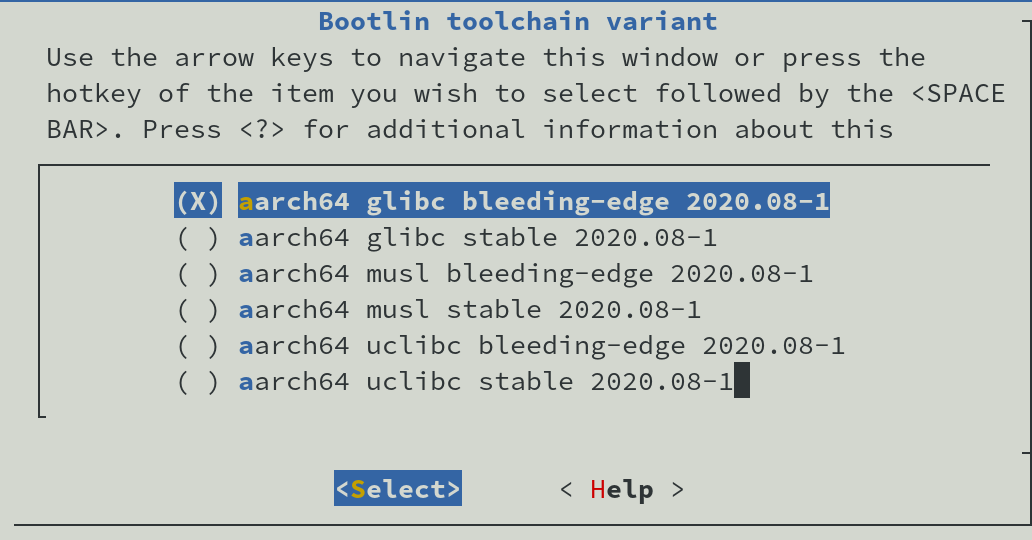
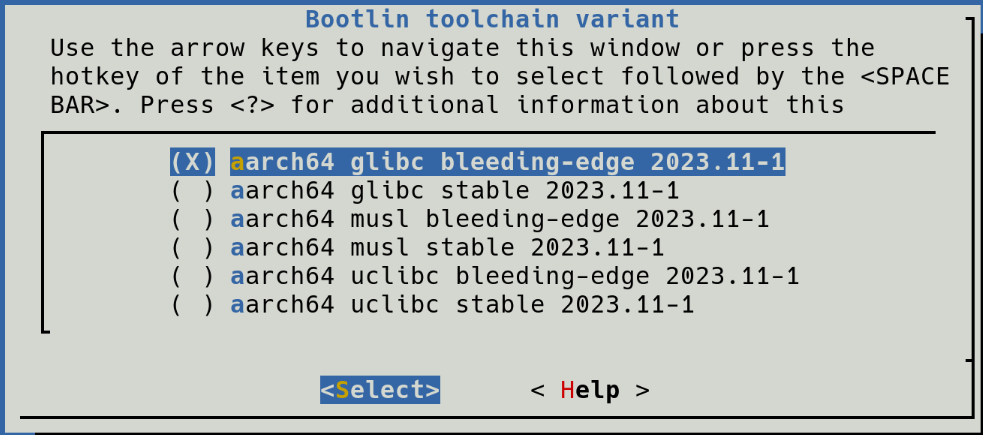
slides/buildroot-*: initial update to Buildroot 2024.02

Changed region(s): [[0.0, 0.0, 1.0, 1.0], [0.5188, 0.8667, 0.6714, 0.9264]]

diff --git a/slides/buildroot-introduction/buildroot-introduction.tex b/slides/buildroot-introduction/buildroot-introduction.tex
@@ -7,13 +7,13 @@
   \item {\bf Fast}: builds a simple root filesystem in a few minutes
   \item Easy to understand: written in make, extensive documentation
   \item {\bf Small} root filesystem, starting at 2 MB
-  \item {\bf 2800+ packages} for user space libraries/apps available
+  \item {\bf 3200+ packages} for user space libraries/apps available
   \item {\bf Many architectures} supported
   \item {\bf Well-known technologies}: {\em make} and {\em kconfig}
   \item Vendor neutral
   \item Active community, regular releases
     \begin{itemize}
-    \item The present slides cover {\em Buildroot 2022.02}. There may
+    \item The present slides cover {\em Buildroot 2024.02}. There may
       be some differences if you use older or newer Buildroot versions.
     \end{itemize}
   \item \url{https://buildroot.org}
@@ -62,8 +62,8 @@
     \begin{itemize}
     \item Maintained during one year
     \item Security fixes, bug fixes, build fixes
-    \item Current LTS is release is \code{2021.02}, maintained until
-      March-April 2022, next one will be \code{2022.02}.
+    \item Current LTS is release is \code{2024.02}, maintained until
+      March-April 2025, next one will be \code{2025.02}.
     \end{itemize}
   \end{itemize}
 \end{frame}

diff --git a/slides/buildroot-tree/buildroot-tree.tex b/slides/buildroot-tree/buildroot-tree.tex
@@ -53,7 +53,7 @@
   \begin{itemize}
   \item \code{package/}
     \begin{itemize}
-    \item all the user space packages (2800+)
+    \item all the user space packages (3200+)
     \item \code{busybox/}, \code{gcc/}, \code{qt5/}, etc.
     \item \code{pkg-generic.mk}, core package infrastructure
     \item \code{pkg-cmake.mk}, \code{pkg-autotools.mk},
@@ -116,7 +116,7 @@
     \item Buildroot documentation
     \item Written in AsciiDoc, can generate HTML, PDF, TXT versions:
       \code{make manual}
-    \item $\approx$135 pages PDF document
+    \item $\approx$142 pages PDF document
     \item Also available pre-generated online.
     \item \url{https://buildroot.org/downloads/manual/manual.html}
     \end{itemize}

diff --git a/slides/buildroot-build/buildroot-build.tex b/slides/buildroot-build/buildroot-build.tex
@@ -136,7 +136,7 @@ $ make clean
     contains the value for all options (except those having unmet
     dependencies)
   \item The default \code{.config}, without any customization, has
-    4467 lines (as of Buildroot 2021.02)
+    4742 lines (as of Buildroot 2024.02)
     \begin{itemize}
     \item Not very practical for reading and modifying by humans.
     \end{itemize}
